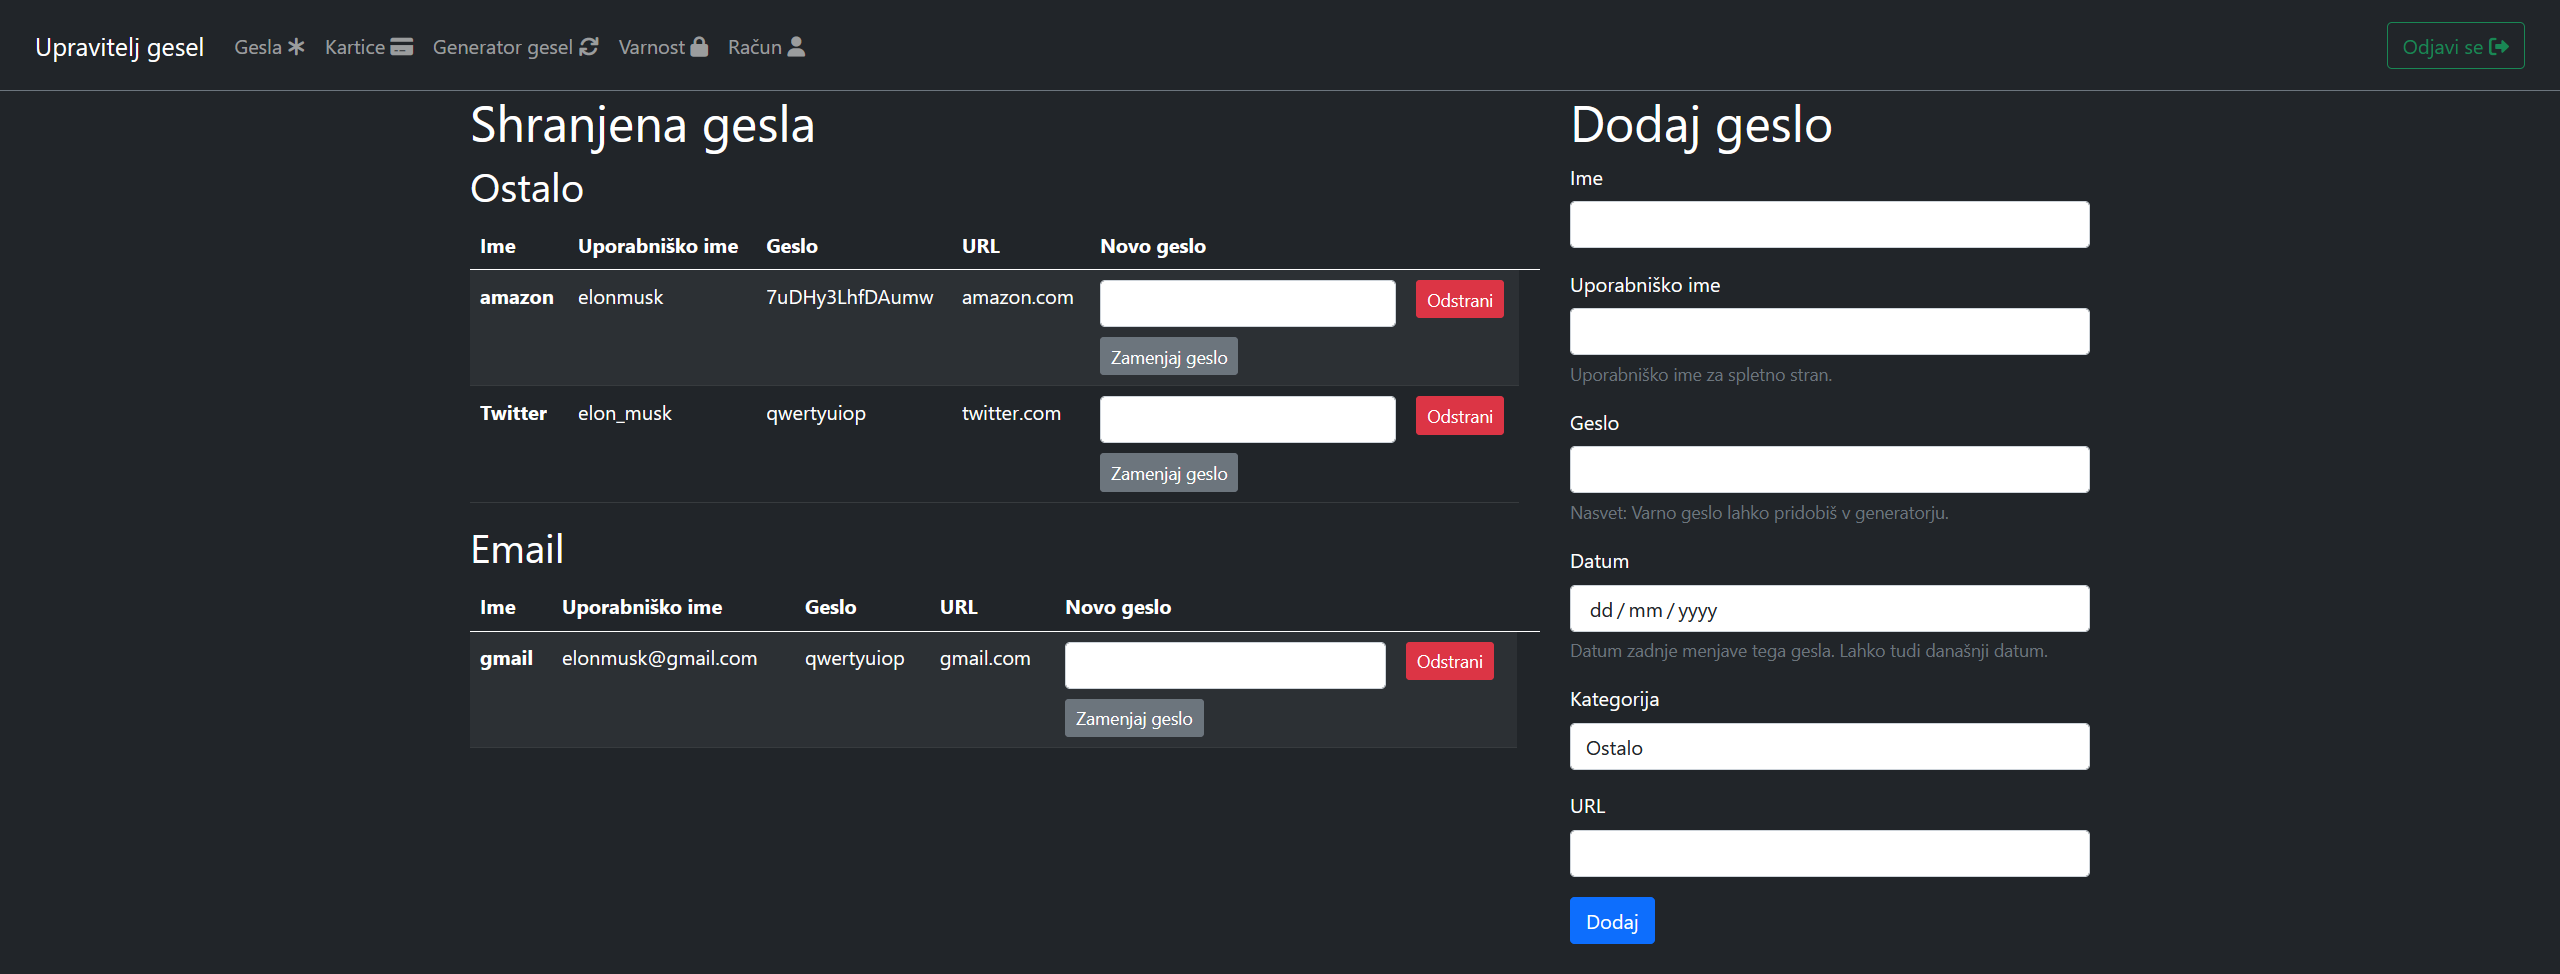
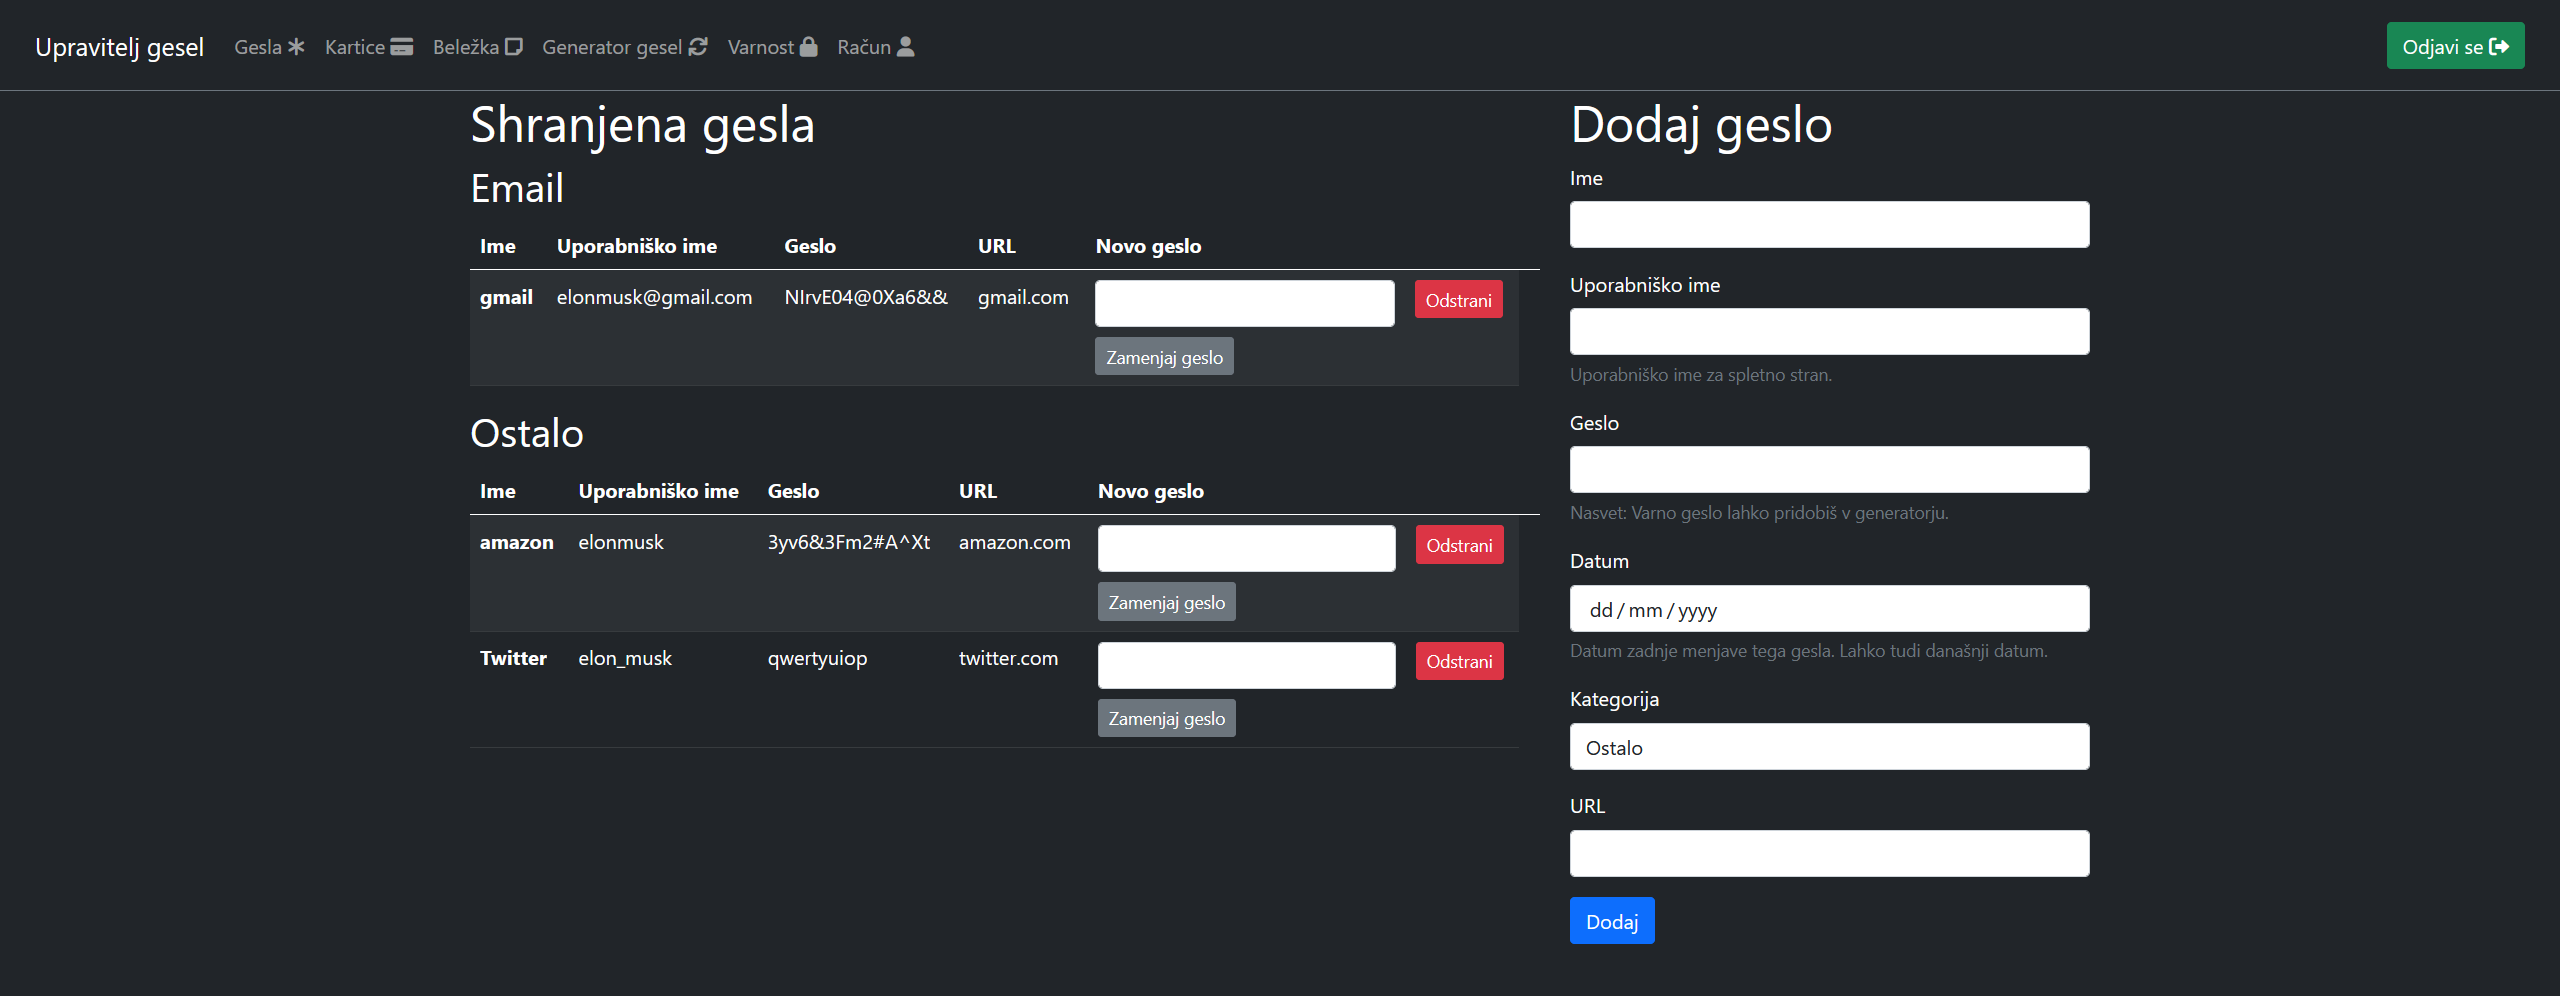
Dodal varno beležko

diff --git a/views/belezka.html b/views/belezka.html
@@ -1,0 +1,53 @@
+% rebase('base.html')
+<div class="container">
+    <div class="row align-items-start">
+      <div class="col-8">
+        <h1>Beležka</h1>
+        %if belezke:
+          <table class="table table-striped table-dark">
+            <thead>
+              <tr>
+                <th scope="col"></th>
+                <th scope="col"></th>
+              </tr>
+            </thead>
+            <tbody>
+              %for belezka in belezke:
+                <tr>
+                  <td>
+                    <h2>{{belezka.naslov}}</h2>
+                    <p>{{belezka.vsebina}}</p>
+                  </td>
+                  <td class="align-middle">
+                    <form action="/odstrani-belezko/" method="POST">
+                        <input type="hidden" name="belezka" value="{{belezka.naslov}}">
+                        <button type="submit" class="btn btn-danger" value="odstrani_belezko">Odstrani</button>
+                    </form>
+                  </td>
+                </tr>
+              %end
+            </tbody>
+          </table>  
+        %else:
+            <p>Nimaš še shranjenih sporočil. Kaj, ko bi kakšno dodal/a?</p>
+        %end
+      </div>
+      <div class="col-4">
+        <h1>Dodaj sporočilo</h1>
+        <form action="/dodaj-belezko/" method="POST">
+            <div class="mb-3">
+                <label for="naslov" class="form-label">Naslov</label>
+                <input type="text" class="form-control" id="naslov" name="naslov" required>
+            </div>
+            <div class="mb-3">
+              <label for="vsebina" class="form-label">Vsebina</label>
+              <textarea class="form-control" id="vsebina" name="vsebina" rows="3" maxlength="200" required></textarea>
+            </div>
+            <button type="submit" class="btn btn-primary mb-3" value="dodaj_belezko">Dodaj</button>
+          </form>
+          %if napaka:
+            <p class="alert alert-danger">{{ napaka }}</p>
+          %end
+      </div>
+    </div>
+</div> 

diff --git a/views/registracija.html b/views/registracija.html
@@ -25,6 +25,9 @@
       <h2>Kartice</h2>
       <img src="/img/kartice.png" class="img-fluid border">
       <p>Na tej strani so shranjene tvoje bančne kartice. Tako kot gesla jih vse vidiš na levi strani, kjer jih tudi lahko izbrišeš, na desni pa dodajaš nove.</p>
+      <h2>Beležka</h2>
+      <img src="/img/belezka.png" class="img-fluid border">
+      <p>Tu imaš varno beležko. Na levi bereš svoja sporočila, na desni dodajaš nova.</p>
       <h2>Generator gesel</h2>
       <img src="/img/generator.png" class="img-fluid border">
       <p>Generator gesel ti pomaga ustvarjati močna gesla za tvoje spletne strani. V generatorju enostavno določiš željeno dolžino in vsebovanje posameznih znakov, generator pa nato ustvari varno geslo.</p>

diff --git a/views/base.html b/views/base.html
@@ -32,6 +32,13 @@
               </a>
             </li>
             <li class="nav-item">
+              <a class="nav-item nav-link" href="/belezka/">Beležka
+                <span class="icon">
+                  <i class="fa-solid fa-note-sticky" style="color:rgba(255,255,255,.55)"></i>
+                </span>
+              </a>
+            </li>
+            <li class="nav-item">
               <a class="nav-item nav-link" href="/generator/">Generator gesel
                 <span class="icon">
                   <i class="fa-solid fa-arrows-rotate" style="color:rgba(255,255,255,.55)"></i>

diff --git a/model.py b/model.py
@@ -65,9 +65,19 @@ class Kartica:
         return self.datum - date.today() < timedelta(90)
 
 @dataclass
+class Belezka:
+    naslov : str
+    vsebina : str
+
+    def __init__(self, naslov, vsebina):
+        self.naslov = naslov
+        self.vsebina = vsebina
+
+@dataclass
 class Shramba:
     gesla : List[Geslo]
     kartice : List[Kartica]
+    belezke : List[Belezka]
 
     def dodaj_geslo(self, ime, uporabnisko_ime, geslo, datum=date.today(), kategorija="Ostalo", url=None):
         novo_geslo = Geslo(ime, uporabnisko_ime, geslo, datum, kategorija, url)
@@ -76,6 +86,10 @@ class Shramba:
     def dodaj_kartico(self, lastnik, stevilka, cvv, datum, ime):
         nova_kartica = Kartica(lastnik, stevilka, cvv, datum, ime)
         self.kartice.append(nova_kartica)
+
+    def dodaj_belezko(self, naslov, vsebina):
+        nova_belezka = Belezka(naslov, vsebina)
+        self.belezke.append(nova_belezka)
 
     def kategorije(self):
         seznam = set()
@@ -103,6 +117,12 @@ class Shramba:
                     "ime": kartica.ime
                     }
                 for kartica in self.kartice
+            ],
+            "belezke": [
+                    {"naslov": belezka.naslov,
+                    "vsebina": belezka.vsebina
+                    }
+                for belezka in self.belezke
             ]
         }
 
@@ -122,9 +142,16 @@ class Shramba:
                 )
             for k in slovar["kartice"]
         ]
+        belezke = [
+            Belezka(
+                b["naslov"], b["vsebina"]
+                )
+            for b in slovar["belezke"]
+        ]
         return cls(
             gesla = gesla,
-            kartice = kartice
+            kartice = kartice,
+            belezke = belezke
         )
 
     def enaka_gesla(self):
@@ -201,12 +228,20 @@ class Uporabnik:
         return ''.join(chr(ord(str(crka)) ^ ord(str(znak))) 
             for crka, znak in zip(objekt["stevilka"], cycle(kljuc)))
 
+    @staticmethod
+    def xor_belezka(objekt, kljuc):
+        return ''.join(chr(ord(str(crka)) ^ ord(str(znak))) 
+            for crka, znak in zip(objekt["vsebina"], cycle(kljuc)))
+
     def zasifriraj_shrambo(self):
         slovar = self.shramba.v_slovar()
         kljuc = self.geslo
         for objekt in slovar["gesla"]:
             sifrirano = self.xor_geslo(objekt, kljuc)
             objekt["geslo"] = sifrirano
+        for objekt in slovar["belezke"]:
+            sifrirano = self.xor_belezka(objekt, kljuc)
+            objekt["vsebina"] = sifrirano
         for objekt in slovar["kartice"]:
             sifrirano = self.xor_kartica(objekt, kljuc)
             objekt["stevilka"] = sifrirano
@@ -220,6 +255,9 @@ class Uporabnik:
         for objekt in slovar["gesla"]:
             odsifrirano = self.xor_geslo(objekt, kljuc)
             objekt["geslo"] = odsifrirano
+        for objekt in slovar["belezke"]:
+            odsifrirano = self.xor_belezka(objekt, kljuc)
+            objekt["vsebina"] = odsifrirano
         for objekt in slovar["kartice"]:
             odsifrirano = self.xor_kartica(objekt, kljuc)
             objekt["stevilka"] = odsifrirano

diff --git a/spletni_vmesnik.py b/spletni_vmesnik.py
@@ -41,7 +41,7 @@ def registracija_post():
         return bottle.template("registracija.html", 
             uporabnik=None, napaka="Manjkajoči podatki.")
     else:
-        uporabnik = model.Uporabnik(uporabnisko_ime, geslo, model.Shramba([], []))
+        uporabnik = model.Uporabnik(uporabnisko_ime, geslo, model.Shramba([], [], []))
         shrani_trenutnega_uporabnika(uporabnik)
         bottle.response.set_cookie("uporabnisko_ime", uporabnisko_ime, path="/", secret=SKRIVNOST)
         bottle.response.set_cookie("geslo", geslo, path="/", secret=SKRIVNOST)
@@ -178,6 +178,41 @@ def odstrani_kartico():
             shramba.kartice.remove(objekt)
             shrani_trenutnega_uporabnika(uporabnik)
             bottle.redirect("/kartice/")
+
+@bottle.get("/belezka/")
+def belezka():
+    uporabnik = trenutni_uporabnik()
+    belezke = uporabnik.shramba.belezke
+    return bottle.template("belezka.html", uporabnik=uporabnik, belezke=belezke, napaka=None)
+
+@bottle.post("/dodaj-belezko/")
+def dodaj_belezko():
+    uporabnik = trenutni_uporabnik()
+    shramba = uporabnik.shramba
+    if bottle.request.forms.getunicode("naslov") in [belezka.naslov for belezka in shramba.belezke]:
+        naslov = None
+    else:
+        naslov = bottle.request.forms.getunicode("naslov")
+    vsebina = bottle.request.forms.getunicode("vsebina")
+    if not naslov:
+        belezke = trenutni_uporabnik().shramba.belezke
+        return bottle.template("belezka.html", uporabnik=trenutni_uporabnik(),
+            belezke=belezke, napaka="Naslov že obstaja")
+    else:
+        shramba.dodaj_belezko(naslov, vsebina)
+        shrani_trenutnega_uporabnika(uporabnik)
+        bottle.redirect("/belezka/")
+
+@bottle.post("/odstrani-belezko/")
+def odstrani_belezko():
+    uporabnik = trenutni_uporabnik()
+    shramba = uporabnik.shramba
+    belezka = bottle.request.forms.getunicode("belezka")
+    for objekt in shramba.belezke:
+        if belezka == objekt.naslov:
+            shramba.belezke.remove(objekt)
+            shrani_trenutnega_uporabnika(uporabnik)
+            bottle.redirect("/belezka/")
 
 @bottle.get("/generator/")
 def generator():

diff --git a/README.md b/README.md
@@ -1,5 +1,5 @@
 # Upravitelj gesel
-Upravitelj gesel je aplikacija, namenjena shranjevanju gesel za spletne strani in bančnih kartic na enem mestu.
+Upravitelj gesel je aplikacija, namenjena shranjevanju gesel za spletne strani, bančnih kartic in občutljivih sporočil na enem mestu.
 
 # Prvi zagon
 Za zagon je potrebno imeti naložen Python. Na računalnik naložimo Upravitelj-gesel.zip in ga razpakiramo v svojo mapo.
@@ -17,12 +17,13 @@ Za nov račun kliknemo na gumb "Registracija" in ustvarimo račun. Tam je tudi h
 V računu imamo na voljo naslednje strani:
 - Gesla
 - Kartice
+- Beležka
 - Generator gesel
 - Varnost
 - Račun
 
-Na strani "Gesla" imamo shrambo gesel, kjer le-ta dodajamo, spreminjamo in brišemo. Podobno na strani "Kartice" dodajamo in brišemo shranjene bančne kartice.
-Gesla in kartice so na strežniku zašifrirana.
+Na strani "Gesla" imamo shrambo gesel, kjer le-ta dodajamo, spreminjamo in brišemo. Podobno na straneh "Kartice" in "Beležka" dodajamo in brišemo shranjene bančne kartice in sporočila.
+Gesla, kartice in beležka so na strežniku zašifrirana.
 
 Generator gesel nam pomaga ustvarjati varna gesla. Izberemo željeno dolžino in vključene znake ter pritisnemo "Generiraj".
 
@@ -33,5 +34,8 @@ Kot šibka gesla štejejo tudi najpogostejša gesla, ki sicer ustrezajo ostalim 
 
 # Demo račun
 Demo račun je namenjen tistim, ki želijo aplikacijo le preizkusiti.
-V ta namen se lahko vpišemo z uporabniškim imenom "elon" in geslom "Bezos5". Ta račun ima vnešenih nekaj gesel in kartic, s katerimi lahko preizkusimo delovanje Upravitelja.
-Če želimo prazen demo račun, se vpišemo z uporabniškim imenom "bezos" in geslom "Musk5". Ta račun je prazen in mu lahko dodajamo gesla in kartice.
+V ta namen se lahko vpišemo z uporabniškim imenom "elon" in geslom "Bezos5". Ta račun ima vnešenih nekaj gesel, kartic in sporočil, s katerimi lahko preizkusimo delovanje Upravitelja.
+Če želimo prazen demo račun, se vpišemo z uporabniškim imenom "bezos" in geslom "Musk5". Ta račun je prazen in mu lahko dodajamo gesla, kartice in sporočila.
+
+# Viri
+Ikone so bile pridobljene na Font Awesome: https://fontawesome.com/
